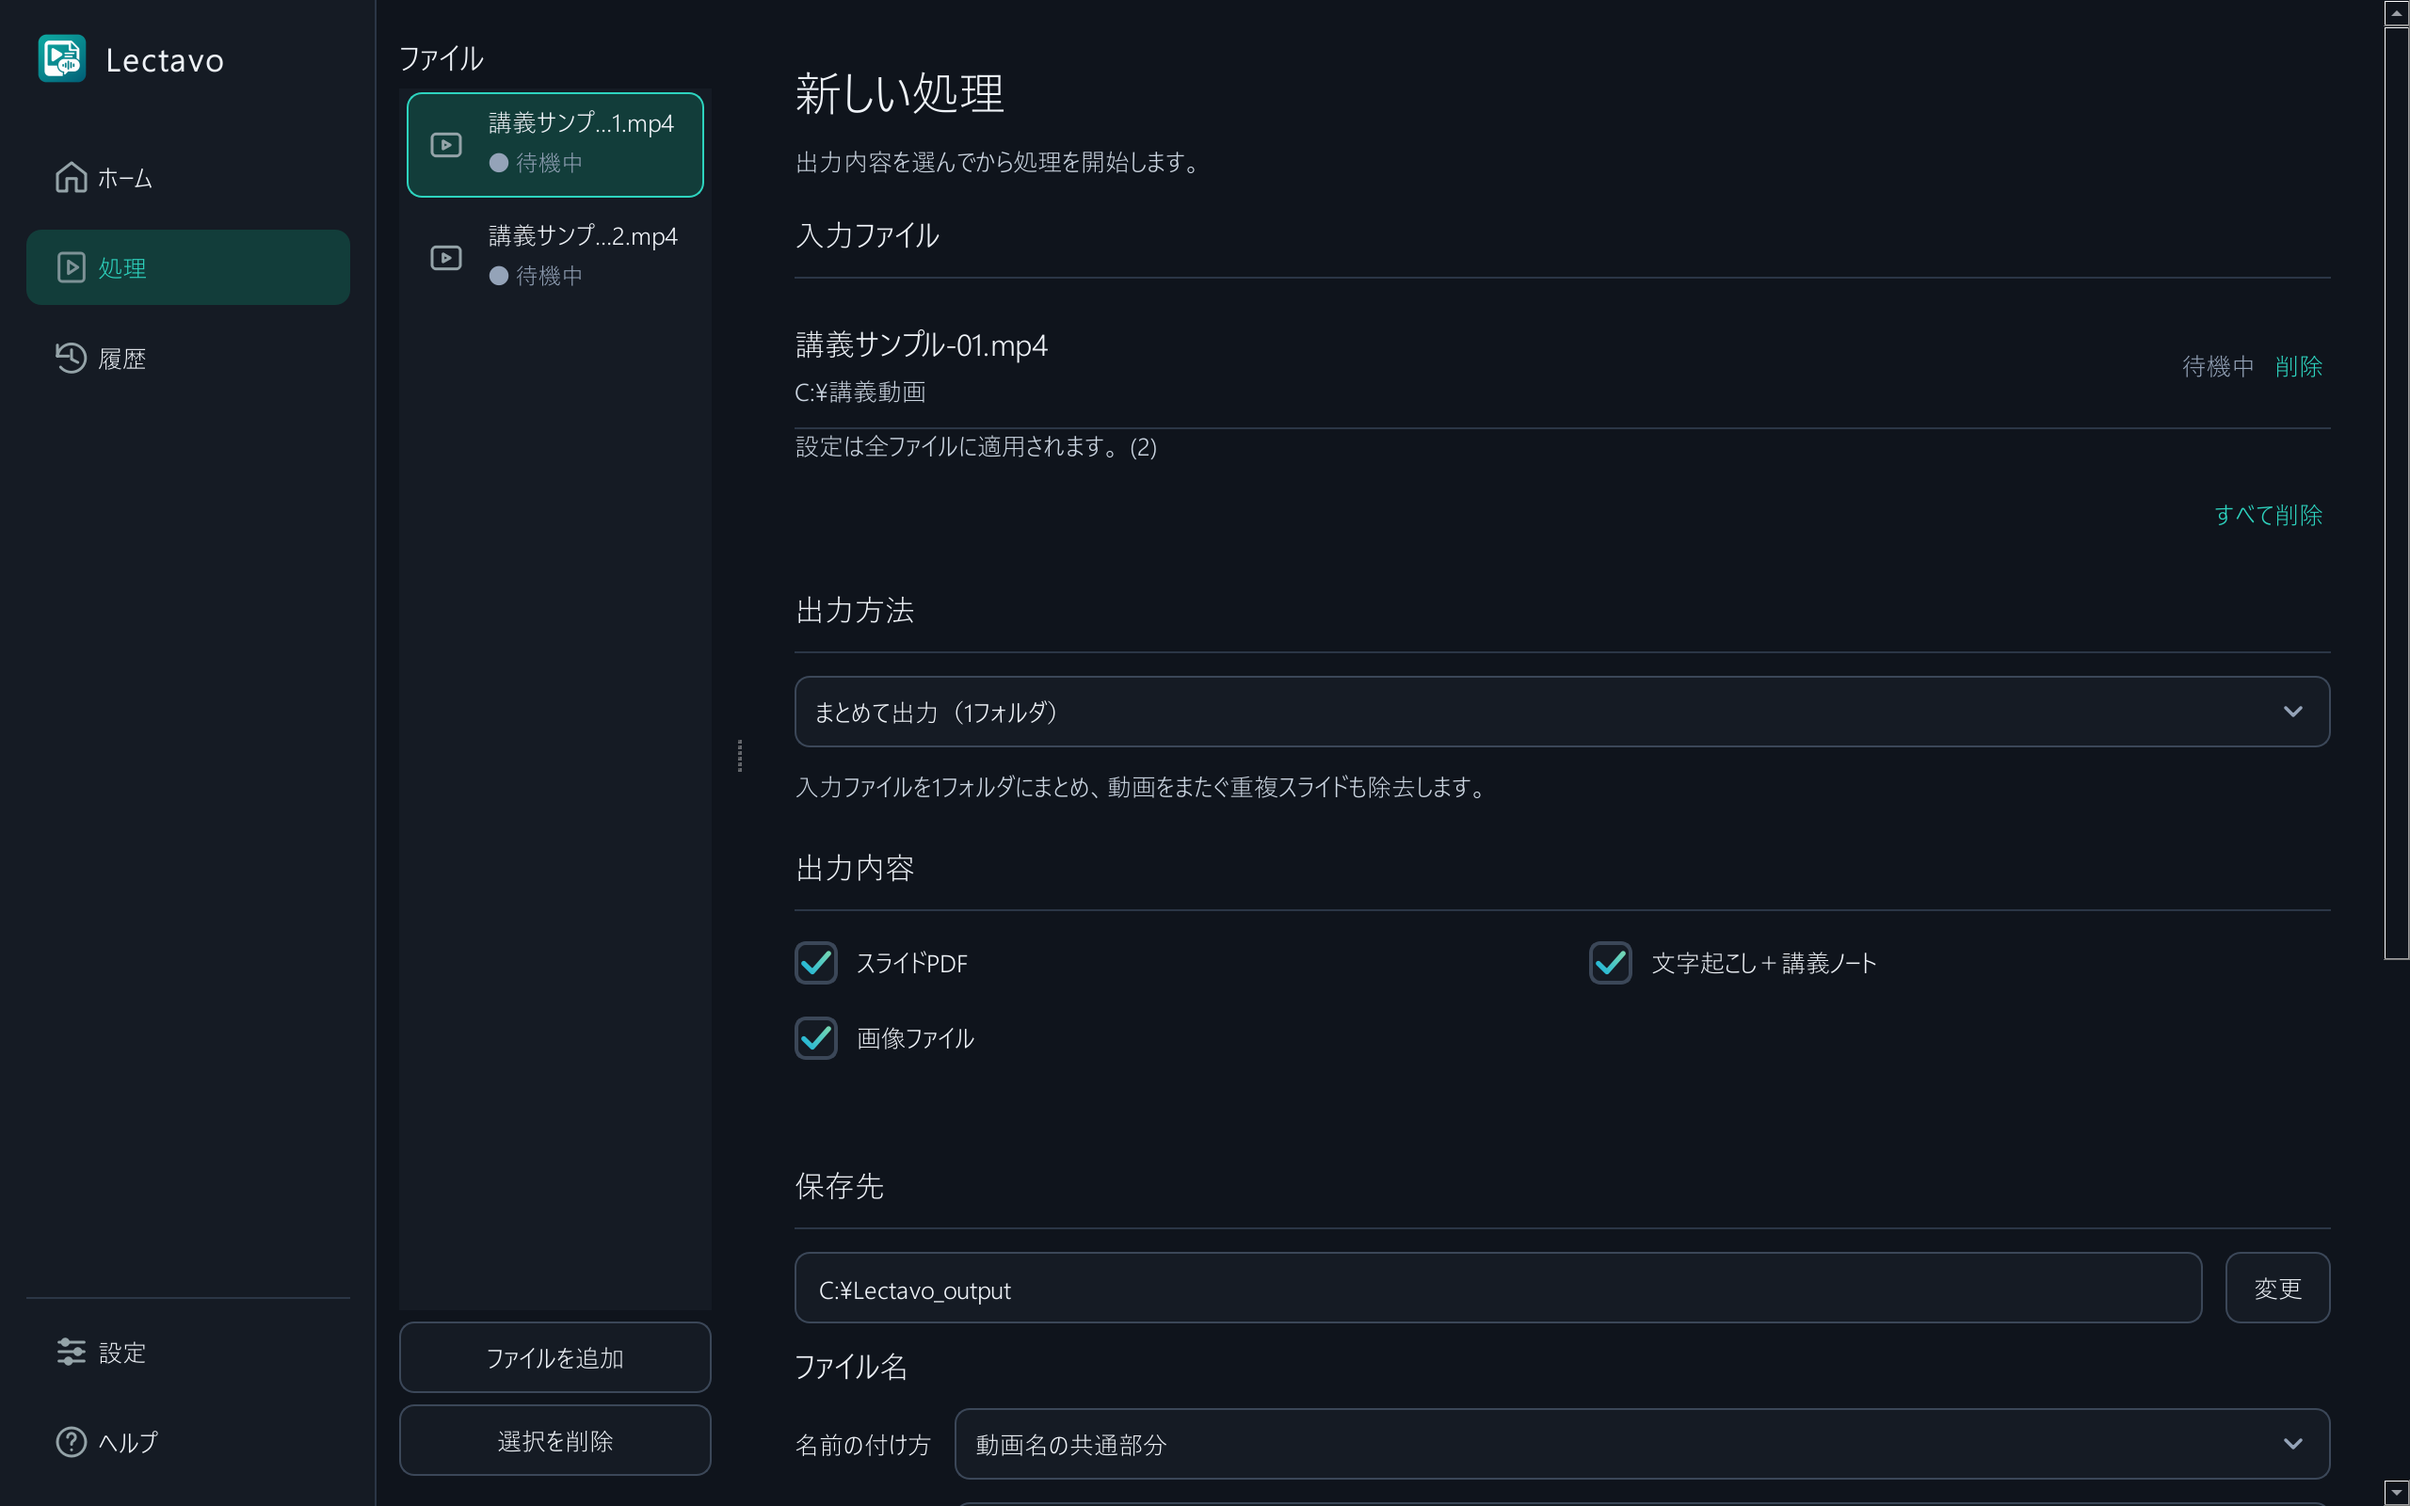
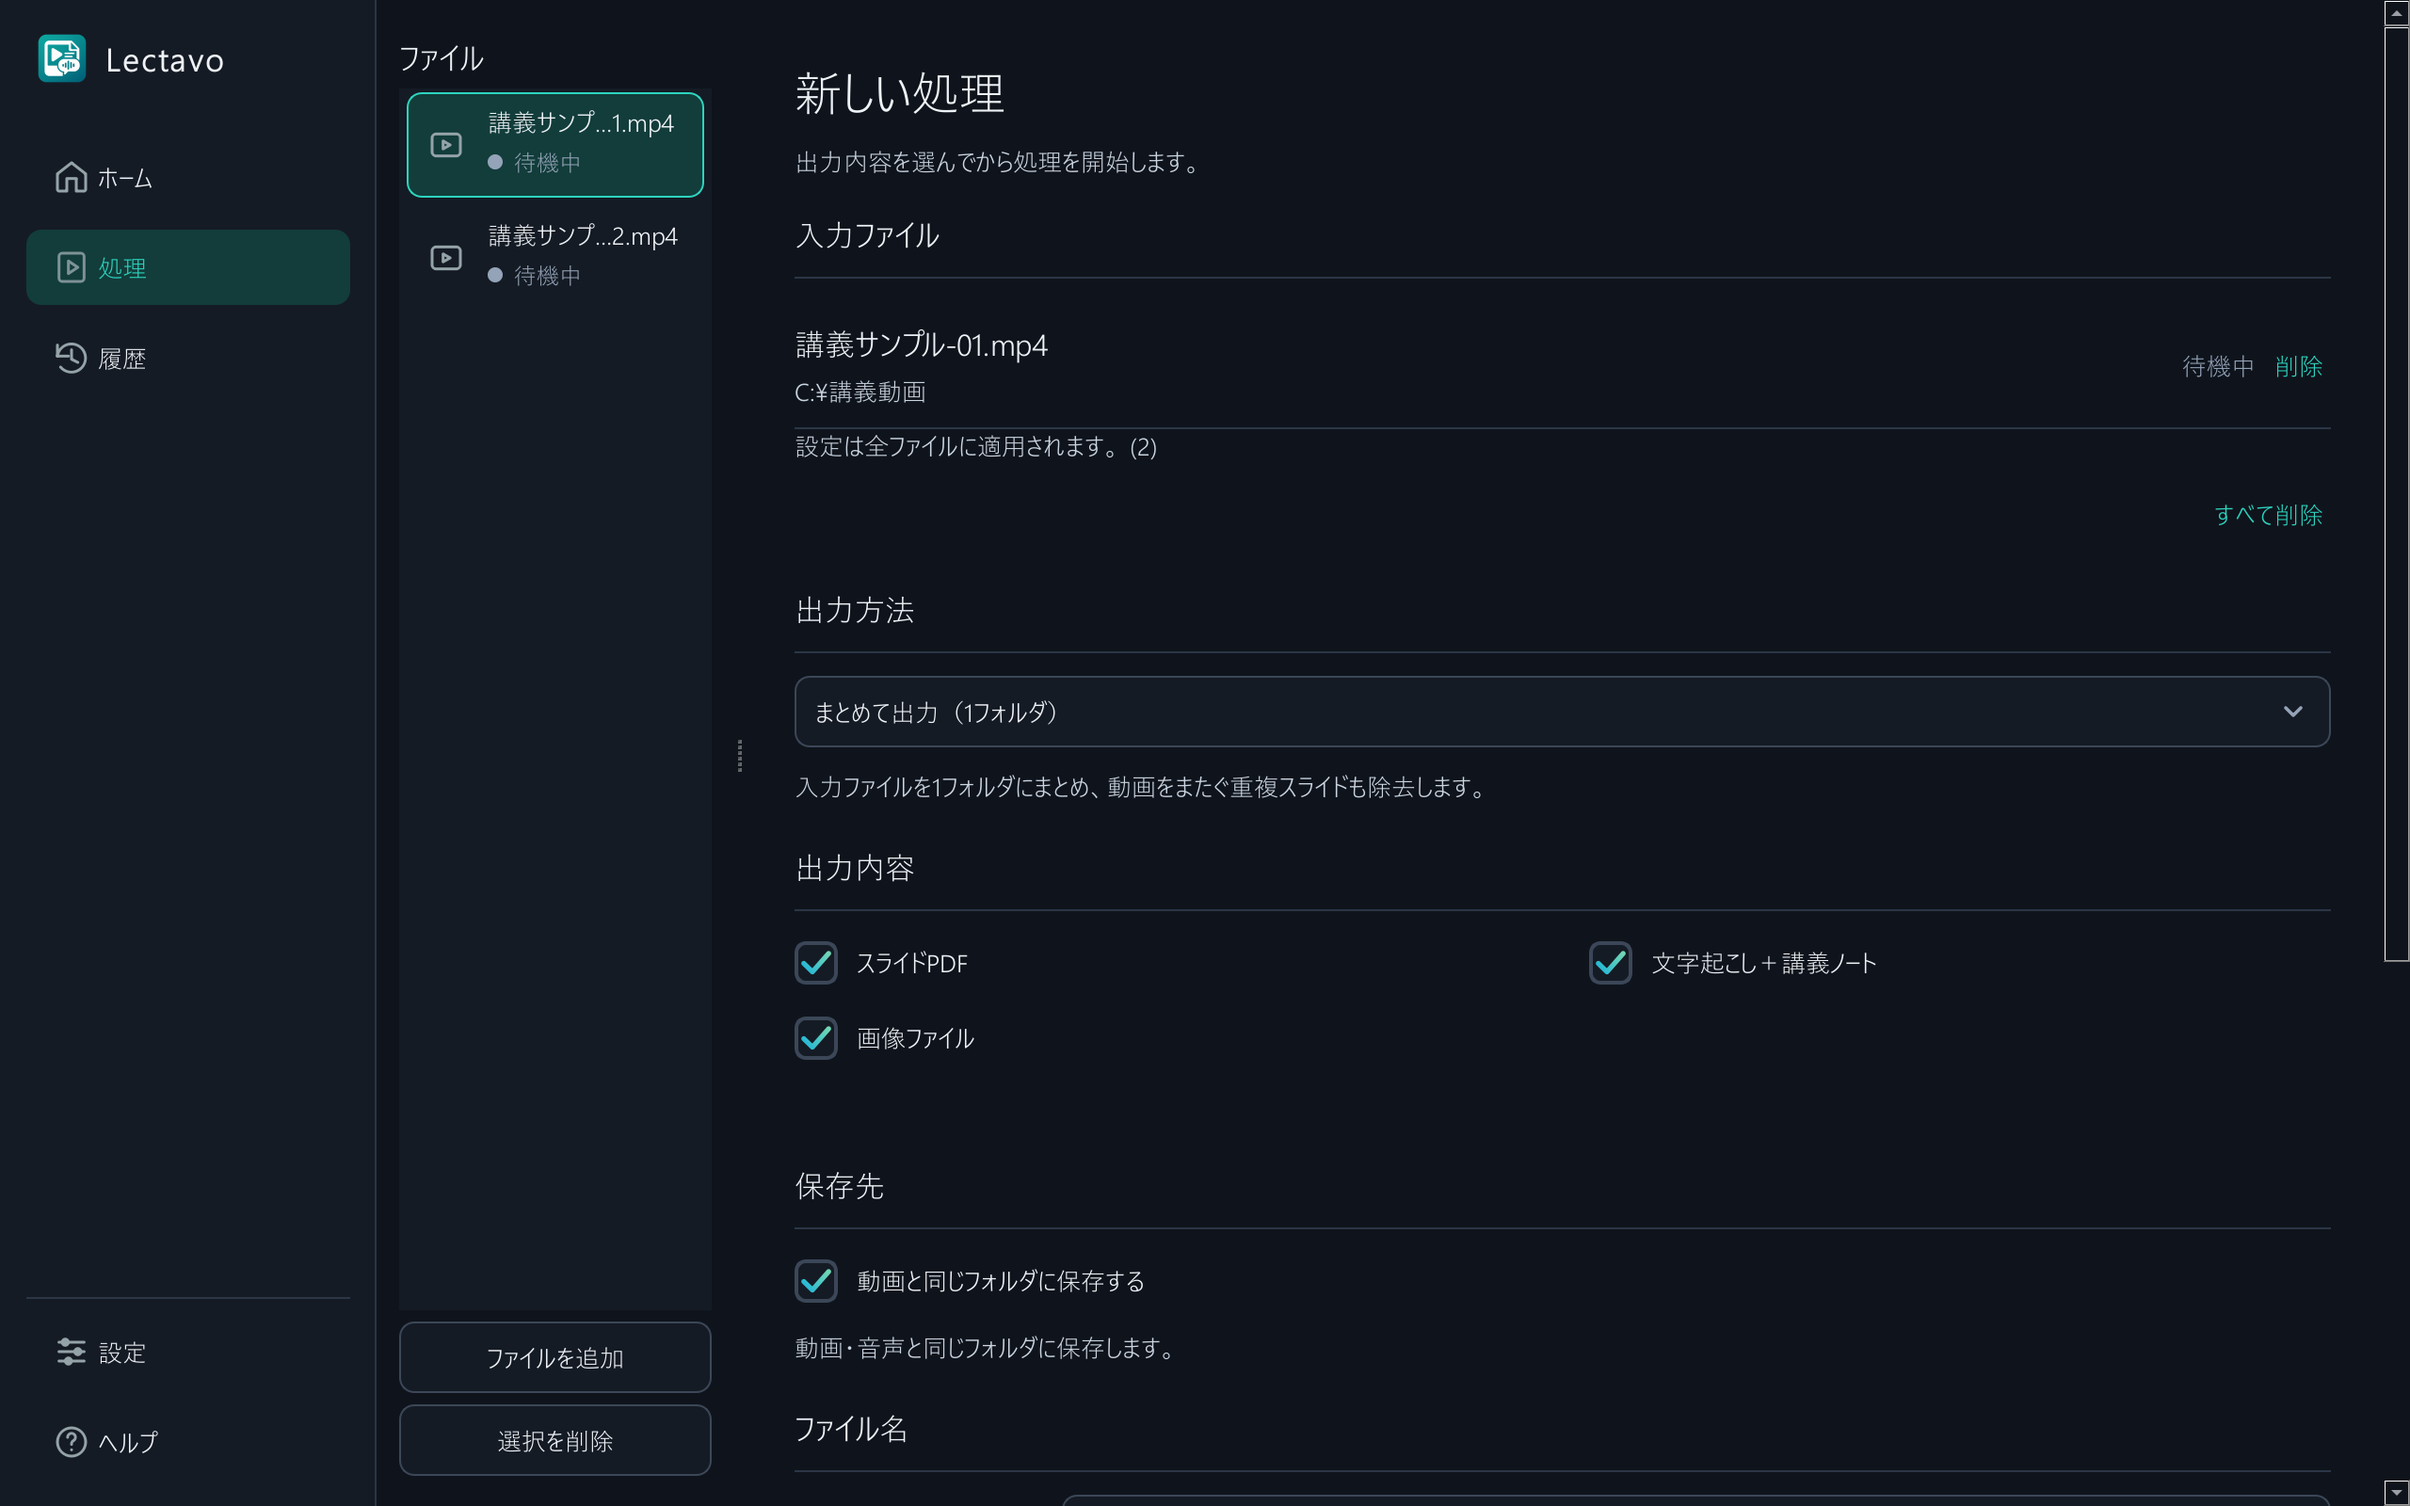
Release 0.4.4: save next to the input, aligned settings, smooth disclosure

diff --git a/website/index.html b/website/index.html
@@ -67,7 +67,7 @@
             "@id": "https://lectavo.vercel.app/#application",
             "name": "Lectavo",
             "url": "https://lectavo.vercel.app/",
-            "downloadUrl": "https://github.com/Kou-256/Lectavo/releases/latest/download/Lectavo-setup-0.4.3-x64.exe",
+            "downloadUrl": "https://github.com/Kou-256/Lectavo/releases/latest/download/Lectavo-setup-0.4.4-x64.exe",
             "image": "https://lectavo.vercel.app/lectavo-og-v2.png",
             "screenshot": [
               "https://lectavo.vercel.app/screenshots/lectavo-home.png",
@@ -78,7 +78,7 @@
             "applicationCategory": "EducationalApplication",
             "applicationSubCategory": "Lecture note generator",
             "operatingSystem": "Windows 10, Windows 11",
-            "softwareVersion": "0.4.3",
+            "softwareVersion": "0.4.4",
             "softwareRequirements": "Windows x64",
             "featureList": [
               "スライド変化検出",
@@ -136,7 +136,7 @@
         <a href="#capabilities">できること</a>
         <a href="#next">新機能</a>
         <a href="#questions">よくある質問</a>
-        <a class="button button--small" href="https://github.com/Kou-256/Lectavo/releases/latest/download/Lectavo-setup-0.4.3-x64.exe" data-download>ダウンロード</a>
+        <a class="button button--small" href="https://github.com/Kou-256/Lectavo/releases/latest/download/Lectavo-setup-0.4.4-x64.exe" data-download>ダウンロード</a>
       </nav>
     </header>
 
@@ -158,7 +158,7 @@
           <div class="hero-actions">
             <a
               class="button button--large"
-              href="https://github.com/Kou-256/Lectavo/releases/latest/download/Lectavo-setup-0.4.3-x64.exe"
+              href="https://github.com/Kou-256/Lectavo/releases/latest/download/Lectavo-setup-0.4.4-x64.exe"
               data-download
             >
               Windows版をダウンロード
@@ -168,7 +168,7 @@
               GitHubで見る
             </a>
           </div>
-          <p class="release-meta">Version 0.4.3 ・ 無料 ・ Python不要</p>
+          <p class="release-meta">Version 0.4.4 ・ 無料 ・ Python不要</p>
         </div>
 
         <div class="hero-status" aria-label="Lectavoの処理機能">
@@ -348,7 +348,7 @@
               <img src="/screenshots/detail-outputs.png" alt="出力内容のチェックボックス、保存先、ファイル名の付け方と出力名の例が表示された設定画面" width="886" height="456" loading="lazy" />
             </figure>
             <h3>まとめて保存も、ファイル別の保存も</h3>
-            <p>1フォルダにまとめるか、動画ごとに分けるかを選べます。ファイル名には共通名や日時を付けられます。</p>
+            <p>結果は動画と同じフォルダに保存（変更も可能）。1フォルダにまとめるか動画ごとに分けるかを選び、ファイル名には共通名や日時を付けられます。</p>
           </article>
         </div>
         <div class="supported-inputs">
@@ -428,16 +428,16 @@
           <img src="/app-icon.png" width="88" height="88" alt="Lectavo" />
           <a
             class="button button--large button--light"
-            href="https://github.com/Kou-256/Lectavo/releases/latest/download/Lectavo-setup-0.4.3-x64.exe"
+            href="https://github.com/Kou-256/Lectavo/releases/latest/download/Lectavo-setup-0.4.4-x64.exe"
             data-download
           >
-            Lectavo-setup-0.4.3-x64.exe
+            Lectavo-setup-0.4.4-x64.exe
             <span aria-hidden="true">↓</span>
           </a>
           <a class="text-link text-link--light" href="https://github.com/Kou-256/Lectavo/releases/latest">
             リリースノートとSHA-256
           </a>
-          <small>Version 0.4.3 ・ MIT License ・ 未署名</small>
+          <small>Version 0.4.4 ・ MIT License ・ 未署名</small>
         </div>
       </section>
     </main>

diff --git a/movie_slide_notes/version.py b/movie_slide_notes/version.py
@@ -1,6 +1,6 @@
 from __future__ import annotations
 
-__version__ = "0.4.3"
+__version__ = "0.4.4"
 APP_NAME = "Lectavo"
 APP_DESCRIPTION = "動画・音声から資料と文字起こしを生成するアプリ"
 APP_PUBLISHER = "Kou Hashizume"

diff --git a/README.en.md b/README.en.md
@@ -8,11 +8,17 @@
 
 <p align="center"><a href="https://lectavo.vercel.app"><strong>Website</strong></a> ・ <a href="https://github.com/Kou-256/Lectavo/releases/latest"><strong>Download latest release</strong></a> ・ <a href="README.md">日本語</a> ・ English</p>
 
+## New in 0.4.4
+
+- **Save next to the input** (on by default): results go into the input video's own folder, beside each video for per-video output or beside the first video for combined output. Turn it off to pick a folder as before.
+- Settings and the Process screen line every field up in one label and field column, including "Select detection area visually".
+- Expanding "スライド検出の詳細" or "開発者向け" no longer flickers; sections open and close smoothly.
+- Download `Lectavo-setup-0.4.4-x64.exe`.
+
 ## New in 0.4.3
 
 - **Frame stepping in the crop dialog**: new −1s, −1 frame, +1 frame, and +1s buttons. Use ←/→ to move one frame and Shift+←/→ to move one second.
 - The time is shown to a hundredth of a second with the frame number, and the exact frame is loaded, so change points can be placed right where the layout switches.
-- Download `Lectavo-setup-0.4.3-x64.exe`.
 
 ![Frame stepping in the crop dialog](docs/images/lectavo-region.png)
 
@@ -89,7 +95,7 @@ Lectavo is a Windows desktop application that turns lecture and presentation vid
 
 ## Download
 
-Download `Lectavo-setup-0.4.3-x64.exe` from the [latest GitHub Release](https://github.com/Kou-256/Lectavo/releases/latest). The installed application does not require Python, pip, Git, a virtual environment, or a separate `ffmpeg.exe`.
+Download `Lectavo-setup-0.4.4-x64.exe` from the [latest GitHub Release](https://github.com/Kou-256/Lectavo/releases/latest). The installed application does not require Python, pip, Git, a virtual environment, or a separate `ffmpeg.exe`.
 
 - Windows 10 / 11 x64
 - Japanese UI by default
@@ -98,11 +104,11 @@ Download `Lectavo-setup-0.4.3-x64.exe` from the [latest GitHub Release](https://
 - GPU optional; CPU-only operation is supported
 - Desktop shortcut enabled by default
 
-The current `0.4.3` binary is unsigned, so Windows SmartScreen may display a warning. Compare the download with the SHA-256 value attached to the release.
+The current `0.4.4` binary is unsigned, so Windows SmartScreen may display a warning. Compare the download with the SHA-256 value attached to the release.
 
 ## Basic use
 
-1. Run `Lectavo-setup-0.4.3-x64.exe`.
+1. Run `Lectavo-setup-0.4.4-x64.exe`.
 2. Launch Lectavo from the desktop or Start Menu.
 3. Add videos with the file button, folder link, or drag and drop.
 4. Choose combined output or per-video output.

diff --git a/docs/releases/v0.4.4.md b/docs/releases/v0.4.4.md
@@ -1,0 +1,18 @@
+# Lectavo 0.4.4
+
+## 新機能
+
+- **動画と同じフォルダに保存**（初期設定でオン）: 結果を入力した動画・音声のフォルダに保存します。「動画ごとに出力」では各動画のフォルダの中に結果フォルダを、「まとめて出力」では最初の動画のフォルダに処理ごとのフォルダを作ります。処理画面では保存先の入力欄の代わりに「保存先: …」と表示します。オフにすると従来どおり保存先を選べます。設定画面と処理画面の切り替えは連動します。
+
+## 改善
+
+- 設定画面と処理画面の項目を、項目名と入力欄の2列にそろえました。「画面で検出範囲を指定」「ページ番号」「スライド検出の詳細」「開発者向け」も入力欄の列に並びます。
+- 「スライド検出の詳細」「開発者向け」を開閉したときに画面がちらつく問題を修正し、滑らかに開閉するようにしました。
+- 各セクションの見出しと区切り線を統一しました。
+- ファイル一覧の状態表示の丸を図形にし、ホームの手順カードの見出しに番号を入れました。
+
+`Lectavo-Setup.exe` は旧版のアプリ内更新用の互換ファイルで、`Lectavo-setup-0.4.4-x64.exe` と同じ内容です。どちらか一方だけをインストールしてください。配布物は未署名です。
+
+## English
+
+Results are now saved next to the input files by default (per-video output beside each video, combined output beside the first video); turn it off to choose a folder as before. Settings and the Process screen align every field in one label and field column, and the detail sections open and close smoothly without flicker.
